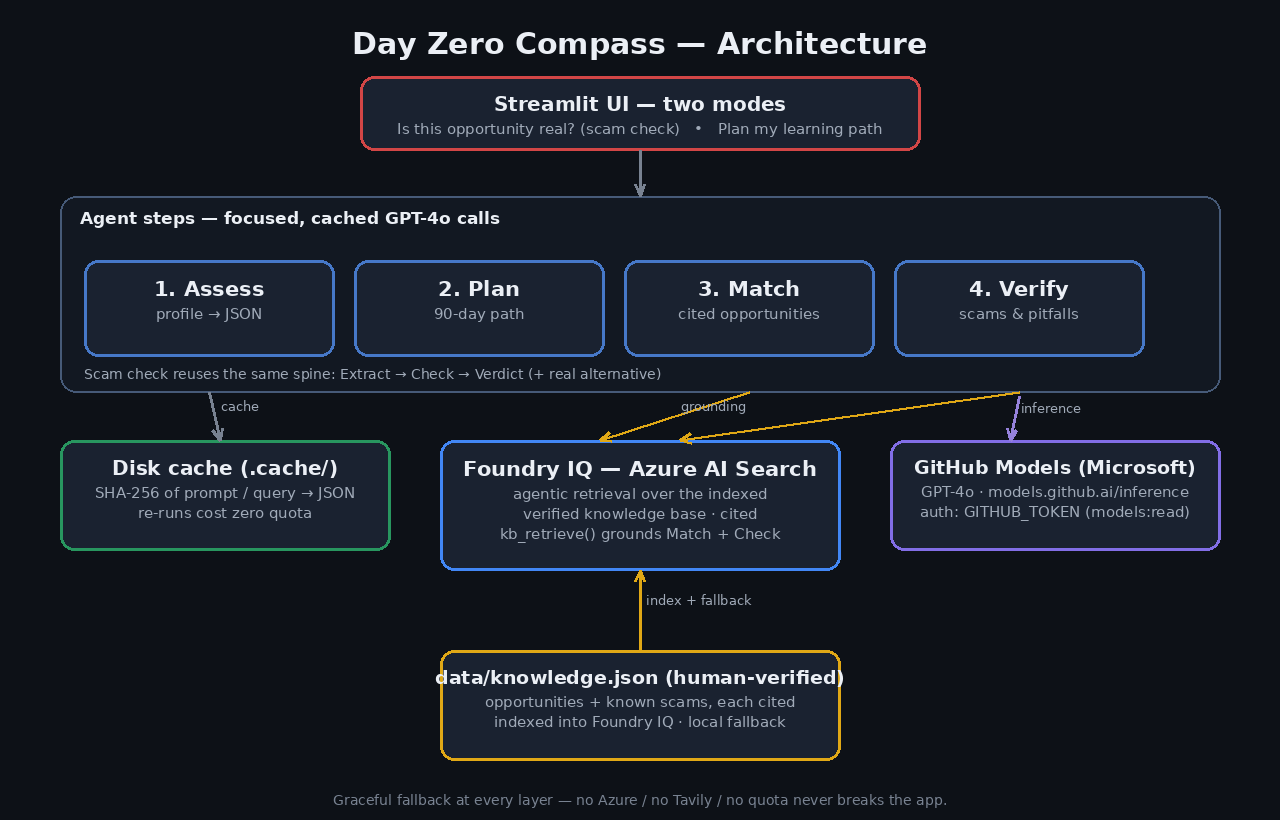
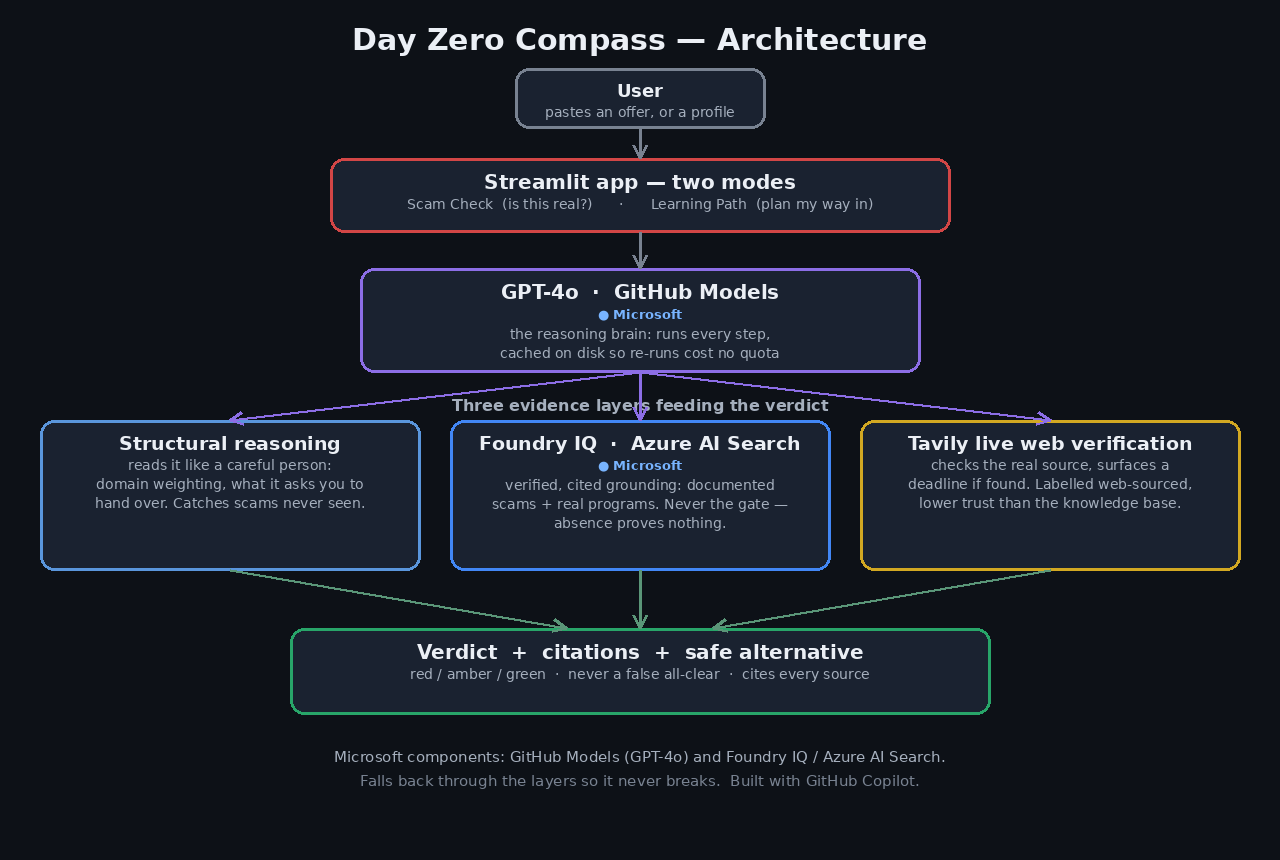
README: separate Day Zero (community) from Day Zero Compass (app); new architecture diagram
- Name the founder (Donald Anyamba) and make the story explicit: Day Zero is the
  community, Day Zero Compass is the app named after it but a separate thing. Bare
  'Day Zero' now appears only in the story + About section.
- Regenerate architecture.png to match the current app: User -> Streamlit (two
  modes) -> GPT-4o on GitHub Models (the reasoning brain) -> three evidence layers
  (structural reasoning, Foundry IQ / Azure AI Search, Tavily live web) -> verdict +
  citations + safe alternative. Microsoft components labelled; 'Built with GitHub
  Copilot' noted.

diff --git a/tools/make_architecture.py b/tools/make_architecture.py
@@ -1,17 +1,32 @@
-"""Regenerate architecture.png (PIL). Dark theme matching the original diagram,
-updated to show Foundry IQ (Azure AI Search) as the grounding layer."""
+"""Regenerate architecture.png (PIL), matching the current app:
 
+  User -> Streamlit (two modes) -> GPT-4o on GitHub Models (the reasoning brain)
+  -> three evidence layers (structural reasoning, Foundry IQ/Azure AI Search,
+     Tavily live web) -> verdict + citations + safe alternative.
+
+Microsoft components are labelled. Dark theme.
+"""
+
+import math
 from PIL import Image, ImageDraw, ImageFont
 
-W, H = 1280, 820
+W, H = 1280, 860
 BG = (13, 17, 23)
 BOX = (26, 34, 48)
 WHITE = (235, 239, 245)
-MUTE = (160, 170, 184)
+MUTE = (165, 175, 189)
 GRAY = (120, 130, 145)
 
 FONT = "/usr/share/fonts/truetype/dejavu/DejaVuSans.ttf"
 BOLD = "/usr/share/fonts/truetype/dejavu/DejaVuSans-Bold.ttf"
+
+# colours
+RED = (210, 70, 70)        # Streamlit UI
+PURPLE = (140, 110, 230)   # GitHub Models (Microsoft)
+BLUE = (90, 150, 220)      # structural reasoning
+MSBLUE = (66, 135, 245)    # Foundry IQ / Azure AI Search (Microsoft)
+AMBER = (210, 168, 34)     # Tavily live web
+GREEN = (40, 165, 105)     # verdict output
 
 
 def f(size, bold=False):
@@ -22,101 +37,81 @@ img = Image.new("RGB", (W, H), BG)
 d = ImageDraw.Draw(img)
 
 
-def center(draw, cx, y, text, font, fill):
-    w = draw.textlength(text, font=font)
-    draw.text((cx - w / 2, y), text, font=font, fill=fill)
+def center(cx, y, text, font, fill):
+    w = d.textlength(text, font=font)
+    d.text((cx - w / 2, y), text, font=font, fill=fill)
 
 
-def box(x, y, w, h, border, title, subs=None, title_size=22, radius=14):
-    d.rounded_rectangle([x, y, x + w, y + h], radius=radius, fill=BOX, outline=border, width=3)
+def box(x, y, w, h, border, title, subs=None, title_size=20, ms=False):
+    d.rounded_rectangle([x, y, x + w, y + h], radius=14, fill=BOX, outline=border, width=3)
     cx = x + w / 2
-    ty = y + (16 if subs else (h - title_size) / 2 - 2)
-    center(d, cx, ty, title, f(title_size, True), WHITE)
-    if subs:
-        yy = ty + title_size + 8
-        for s in subs:
-            center(d, cx, yy, s, f(15), MUTE)
-            yy += 20
-    return (cx, y, x + w, y + h, x, y + h / 2, x + w, y + h / 2)  # cx, top, ...
+    ty = y + (12 if subs else (h - title_size) / 2 - 2)
+    center(cx, ty, title, f(title_size, True), WHITE)
+    yy = ty + title_size + 6
+    if ms:  # a clear, centered Microsoft label under the title
+        center(cx, yy, "● Microsoft", f(13, True), (120, 180, 255))
+        yy += 20
+    for s in (subs or []):
+        center(cx, yy, s, f(14), MUTE)
+        yy += 19
+    return {"cx": cx, "top": (cx, y), "bot": (cx, y + h), "x": x, "y": y, "w": w, "h": h}
 
 
-def arrow(p1, p2, color=GRAY, width=3, label=None):
+def arrow(p1, p2, color=GRAY, width=3):
     d.line([p1, p2], fill=color, width=width)
-    import math
     ang = math.atan2(p2[1] - p1[1], p2[0] - p1[0])
-    L = 12
-    for da in (-0.4, 0.4):
-        d.line([p2, (p2[0] - L * math.cos(ang - da), p2[1] - L * math.sin(ang - da))],
+    for da in (-0.45, 0.45):
+        d.line([p2, (p2[0] - 14 * math.cos(ang - da), p2[1] - 14 * math.sin(ang - da))],
                fill=color, width=width)
-    if label:
-        mx, my = (p1[0] + p2[0]) / 2, (p1[1] + p2[1]) / 2
-        d.text((mx + 6, my - 18), label, font=f(13), fill=MUTE)
 
 
-# Title
-center(d, W / 2, 26, "Day Zero Compass — Architecture", f(30, True), WHITE)
+center(640, 22, "Day Zero Compass — Architecture", f(30, True), WHITE)
 
-# Streamlit UI
-ux, uy, uw, uh = 360, 76, 560, 74
-box(ux, uy, uw, uh, (210, 70, 70), "Streamlit UI — two modes",
-    ["Is this opportunity real? (scam check)   •   Plan my learning path"], 20)
-ui_bottom = (ux + uw / 2, uy + uh)
+# 1. User
+user = box(515, 68, 250, 60, GRAY, "User", ["pastes an offer, or a profile"], 18)
 
-# Pipeline container
-px, py, pw, ph = 60, 196, 1160, 196
-d.rounded_rectangle([px, py, px + pw, py + ph], radius=16, fill=(18, 24, 34),
-                    outline=(70, 90, 120), width=2)
-d.text((px + 20, py + 12), "Agent steps — focused, cached GPT-4o calls",
-       font=f(17, True), fill=WHITE)
+# 2. Streamlit UI — two modes
+ui = box(330, 158, 620, 74, RED, "Streamlit app — two modes",
+         ["Scam Check  (is this real?)      ·      Learning Path  (plan my way in)"], 20)
 
-steps = [("1. Assess", "profile → JSON"), ("2. Plan", "90-day path"),
-         ("3. Match", "cited opportunities"), ("4. Verify", "scams & pitfalls")]
-sw, sh, gap = 250, 96, 20
-sx = px + 24
-sy = py + 64
-step_boxes = []
-for title, sub in steps:
-    step_boxes.append(box(sx, sy, sw, sh, (70, 120, 200), title, [sub], 21))
-    sx += sw + gap
+# 3. GPT-4o on GitHub Models — the reasoning brain
+brain = box(360, 268, 560, 104, PURPLE, "GPT-4o  ·  GitHub Models",
+            ["the reasoning brain: runs every step,", "cached on disk so re-runs cost no quota"],
+            20, ms=True)
 
-# Hero verifier note inside the strip
-d.text((px + 24, py + ph - 26),
-       "Scam check reuses the same spine: Extract → Check → Verdict (+ real alternative)",
-       font=f(14), fill=MUTE)
+# 4. Three evidence layers
+center(640, 396, "Three evidence layers feeding the verdict", f(16, True), MUTE)
+ey, eh, ew = 420, 150, 380
+e1 = box(40, ey, ew, eh, BLUE, "Structural reasoning",
+         ["reads it like a careful person:", "domain weighting, what it asks you to",
+          "hand over. Catches scams never seen."], 19)
+e2 = box(450, ey, ew, eh, MSBLUE, "Foundry IQ  ·  Azure AI Search",
+         ["verified, cited grounding: documented", "scams + real programs. Never the gate —",
+          "absence proves nothing."], 19, ms=True)
+e3 = box(860, ey, ew, eh, AMBER, "Tavily live web verification",
+         ["checks the real source, surfaces a", "deadline if found. Labelled web-sourced,",
+          "lower trust than the knowledge base."], 19)
 
-arrow(ui_bottom, ((px + pw / 2), py), GRAY)
+# 5. Verdict output
+verdict = box(290, 628, 700, 86, GREEN, "Verdict  +  citations  +  safe alternative",
+              ["red / amber / green  ·  never a false all-clear  ·  cites every source"], 20)
 
-# Bottom row: Disk cache | Foundry IQ grounding | GitHub Models
-row_y = 440
-# Disk cache
-cb = box(60, row_y, 330, 110, (40, 150, 95), "Disk cache (.cache/)",
-         ["SHA-256 of prompt / query → JSON", "re-runs cost zero quota"], 20)
-# Foundry IQ (center, highlighted)
-fb = box(440, row_y, 400, 130, (66, 135, 245), "Foundry IQ — Azure AI Search",
-         ["agentic retrieval over the indexed", "verified knowledge base · cited",
-          "kb_retrieve() grounds Match + Check"], 21)
-# GitHub Models
-gb = box(890, row_y, 330, 110, (130, 110, 230), "GitHub Models (Microsoft)",
-         ["GPT-4o · models.github.ai/inference", "auth: GITHUB_TOKEN (models:read)"], 19)
+# arrows: vertical spine
+arrow(user["bot"], ui["top"])
+arrow(ui["bot"], brain["top"])
+# brain fans out to the three layers
+for e in (e1, e2, e3):
+    arrow((brain["cx"], brain["y"] + brain["h"]), (e["cx"], ey), PURPLE)
+# layers converge into the verdict
+for e in (e1, e2, e3):
+    arrow((e["cx"], ey + eh), (verdict["cx"] + (e["cx"] - verdict["cx"]) * 0.18, 628),
+          (90, 150, 120))
 
-# knowledge.json feeding Foundry IQ (+ local fallback)
-kx, ky, kw, kh = 440, 650, 400, 110
-box(kx, ky, kw, kh, (224, 168, 22), "data/knowledge.json (human-verified)",
-    ["opportunities + known scams, each cited", "indexed into Foundry IQ · local fallback"], 19)
-
-# Arrows: steps -> Foundry IQ ; Foundry IQ -> knowledge.json ; steps -> models/cache
-fb_top = (440 + 200, row_y)
-arrow((step_boxes[2][0], py + ph), (fb_top[0] - 40, row_y), (224, 168, 22),
-      label="grounding")
-arrow((step_boxes[3][0], py + ph), (fb_top[0] + 40, row_y), (224, 168, 22))
-arrow((640, ky), (640, row_y + 130), (224, 168, 22), label="index + fallback")
-arrow((step_boxes[0][0], py + ph), (220, row_y), GRAY, label="cache")
-arrow((step_boxes[3][0], py + ph + 4), (1010, row_y), (150, 130, 220),
-      label="inference")
-
-# Footer
-center(d, W / 2, 792, "Graceful fallback at every layer — no Azure / no Tavily / no quota "
-       "never breaks the app.", f(14), GRAY)
+# footer
+center(640, 748, "Microsoft components: GitHub Models (GPT-4o) and Foundry IQ / Azure AI Search.",
+       f(15), MUTE)
+center(640, 772, "Falls back through the layers so it never breaks.  Built with GitHub Copilot.",
+       f(15), GRAY)
 
 img.save("architecture.png")
 print("wrote architecture.png", img.size)

diff --git a/README.md b/README.md
@@ -1,8 +1,8 @@
 # Day Zero Compass
 
-I'm the founder of Day Zero, a builders' community in Southeast Nigeria. This region is marginalised. One of the things people here lack most is clarity and direction. And because real opportunity is scarce, scammers move in to take advantage of people hunting for it. Fake grants, fake scholarships, fake jobs, forwarded on WhatsApp, made to steal the little someone has.
+I'm Donald Anyamba. I founded Day Zero, a builders' community in Southeast Nigeria. This region is marginalised. One of the things people here lack most is clarity and direction. And because real opportunity is scarce, scammers move in to take advantage of people hunting for it. Fake grants, fake scholarships, fake jobs, forwarded on WhatsApp, made to steal the little someone has.
 
-That's why I built Day Zero Compass. I didn't build it only for the Day Zero community. It's for anyone looking for clarity and a real path forward.
+That's why I built Day Zero Compass. It's named after the community but it's a separate thing, an app of its own. I didn't build it only for the Day Zero community. It's for anyone looking for clarity and a real path forward.
 
 *Built for the Microsoft Agents League Hackathon.*
 
@@ -98,6 +98,6 @@ Keys are read from the environment first, then Streamlit secrets, so the same na
 
 ## About Day Zero
 
-Day Zero is a builders' community in Southeast Nigeria. We meet people where they are, often at zero, and help them build from there. This tool is one piece of that: a way to tell a real chance from someone trying to rob you, and to find the next real step.
+Day Zero is a builders' community in Southeast Nigeria. We meet people where they are, often at zero, and help them build from there. Day Zero Compass is one piece of that: a way to tell a real chance from someone trying to rob you, and to find the next real step.
 
 **From Nothing, To Everything.**